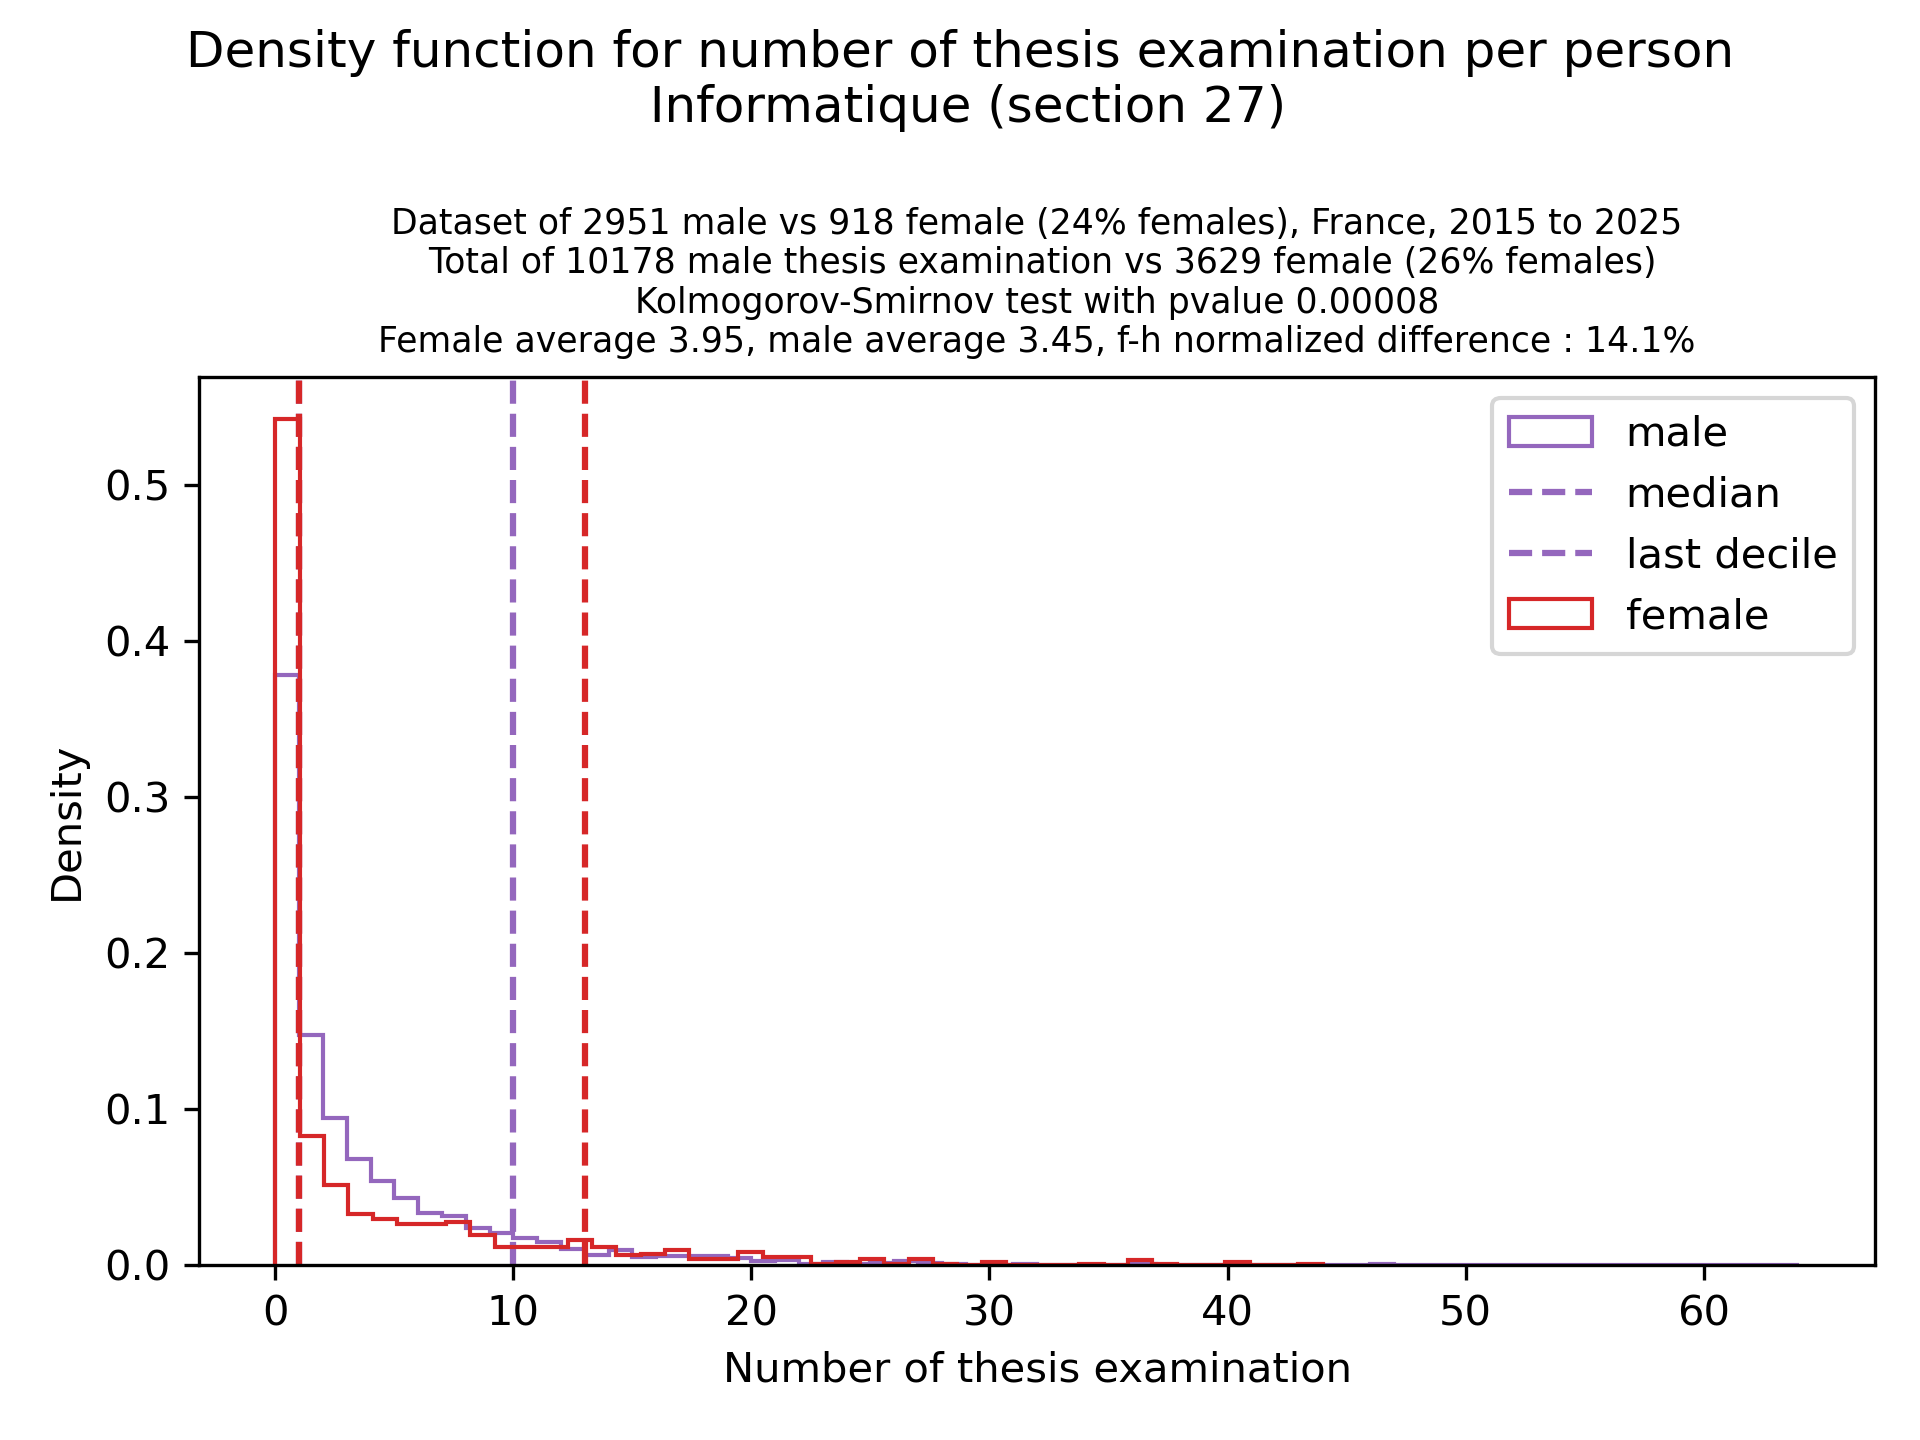
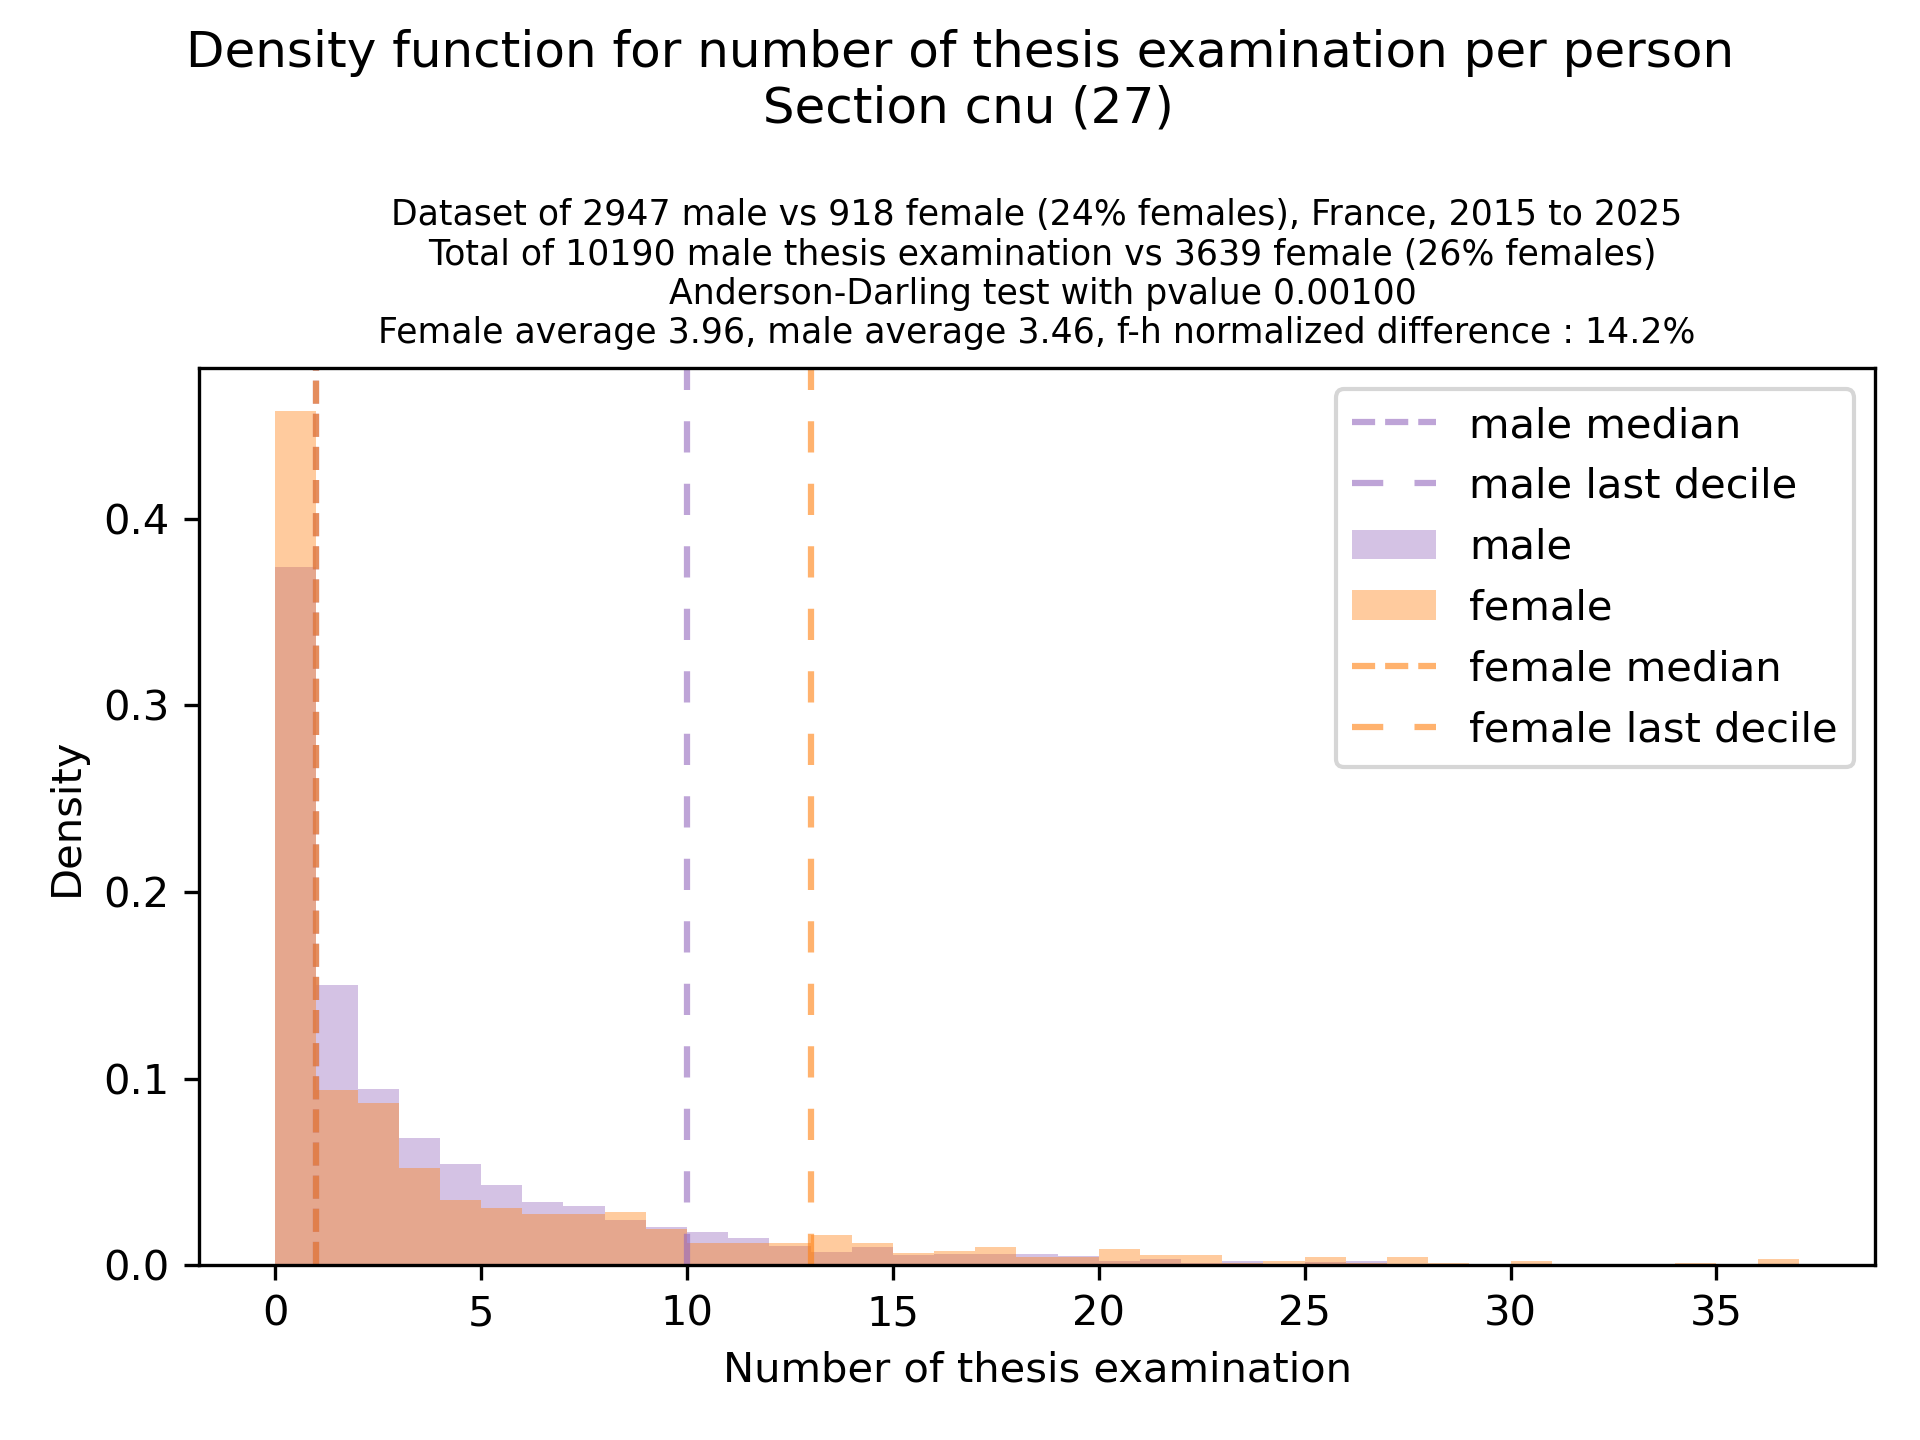
Stats: major update and clean-up

diff --git a/computer_science.html b/computer_science.html
@@ -181,16 +181,14 @@ is worsening.</li>
 <p>Highlights for people in section 27:</p>
 <ul>
 <li><strong>Men supervise more than women</strong> (about 1.5 times more
-on average, and 60% of women don’t supervise vs 45% of men).</li>
+on average, and 60% of women don’t supervise vs 45% of men). The effect
+holds for both PU or MCF.</li>
 <li><strong>Women are more often jury member</strong> for thesis, but in
-addition the global repartition is very bad for women, where a lot of
-pressure is put on a few of them. (many women never do any jury, while
-6% of women do more than 2 jury per year, vs only 1% of men).</li>
+addition the global repartition whithin women is very bad, where a lot
+of pressure is put on a few of them. The effect is most striking for PU,
+but also holds for MCF.</li>
 <li><strong>Women’s PhD thesis (in number of pages) are slightly
 longer</strong> than men (on average 7 pages longer out of 180).</li>
-<li><strong>Women are more often on hiring committees</strong> , which
-is expected by French law which asks for at least 40% women in every
-committee, but once again, the global repartition is bad.</li>
 </ul>
 <div class="warning">
 <p><span style="color: #9a6700;">⚠ Warning</span></p>
@@ -213,16 +211,45 @@ lookout for its consequences.</p>
 <p>The plots below are density functions (the area below the lines sum
 to 1). On the first one, we for instance see that way more women than
 men in proportion never do any thesis jury (the red bar is bigger than
-the purple one at 0), and that the last decile is way higher for
-women.</p>
-<p><img src="pics/examiner.sec27.png" /></p>
-<p><img src="pics/supervised.sec27.png" /></p>
-<p><img src="pics/length.info.zoom.png" /></p>
+the purple one at 0), and that the last decile is way higher for women.
+For each effect, we put the most striking graph first.</p>
+<h3 id="effect-1-graphics">Effect 1 graphics</h3>
+<p><img src="pics/supervised.pu.sec27.png" /> <img
+src="pics/supervised.sec27.png" /> <img
+src="pics/supervised.mcf.sec27.png" /></p>
+<h3 id="effect-2-graphics">Effect 2 graphics</h3>
+<p><img src="pics/examiner.pu.sec27.png" /> <img
+src="pics/examiner.sec27.png" /> <img
+src="pics/examiner.mcf.sec27.png" /></p>
+<h3 id="effect-3-graphics">Effect 3 graphics</h3>
+<p><img src="pics/length.info.png" /></p>
+<h1 id="hiring-committees-for-computer-science-and-maths">Hiring
+committees for computer science and maths</h1>
+<p>The french law for hiring committees enforces a 40% proportion of
+women. So, as expected, we see an unfair burden on women. However,
+across all sections, we observe <strong>an unfair repartition whitin
+women</strong>, with too much pressure put on too few women. The effect
+is most striking for PU in sec 25 and 26, and more reasonable for
+section 27. However, note that for section 27, the results are very
+innacurate (see <a href="#methodology">Methodology</a> below), almost
+half of the data is missing, which could fully invisibilize the
+targetted effect.</p>
+<h3
+id="graphs-ordered-from-most-striking-to-less-striking-unfair-repartition">Graphs
+ordered from most striking to less striking unfair repartition</h3>
+<p><img src="pics/jury_poste.pu.sec25.png" /> <img
+src="pics/jury_poste.pu.sec26.png" /> <img
+src="pics/jury_poste.mcf.sec25.png" /></p>
+<p><img src="pics/jury_poste.mcf.sec26.png" /> <img
+src="pics/jury_poste.pu.sec27.png" /> <img
+src="pics/jury_poste.mcf.sec27.png" /></p>
 <h2 id="methodology">Methodology</h2>
+<h3 id="mcfpu-positions">MCF/PU positions</h3>
 <p>For MCF/PU positions, data was aggregated from the “Fiches
 démographiques des sections du Conseil national des universités (CNU)”
 for section 27, for INRIA, from the “Rapport Social Unique” 2022 and
 2023, for CNRS, from “Rappor de conjoncture” 2018 and 2025.</p>
+<h3 id="thesis">Thesis</h3>
 <p>For PhD thesis gender/length/review/supervisions, data was scrapped
 from <a href="https://theses.fr">theses.fr</a> and <a
 href="https://theses.hal.science/">theses.hal.science/</a>, supported
@@ -231,7 +258,8 @@ contains the gender). Some errors are very likely to be contained, but
 for checkable data, data is consistent.</p>
 <p>Notably, gender is mostly guessed using an INSEE database of name
 popularity w.r.t. gender in France. For CNU 27 people, gender was
-correctly guessed with above 95% probability.</p>
+correctly guessed (comparing with the one from the electoral body) with
+above 95% probability.</p>
 <p>A PhD thesis was considered to belong to section 27 if at least one
 of the director is inside the section.</p>
 <p>Several bias/limitations are present:</p>
@@ -248,6 +276,20 @@ an id are not always linked to the id.</li>
 <p>Data would need to be manually inspected based on random sampling to
 increase trust in the results. Some statistically significant bias would
 require a quantitative analysis to identify the origin.</p>
+<h3 id="hiring-committees">Hiring committees</h3>
+<p>We used the electoral body of section 25,26 and 27 of 2019 and 2024,
+which contains the gender. In addition, we used the grassroot effort of
+registering committees at http://postes.smai.emath.fr</p>
+<p>Note that in section 27, the proportion of unregistered committees
+(for which we don’t know the set of committee members), is 52%, vs 8%
+for 25 and 13% for 26. Hence, for section 27, the absolute value are
+very much far away from the truth.</p>
+<p>In addition, the committees member list are not at all formated in a
+consistent way. For each cnu member, we counted how many time either
+“firstname surname” or “surname firstname” occured in those
+inconsistenly formatted lists. Many data points are probably missed, but
+this should not introduce any gender bias.</p>
+<h3 id="final-comments">Final comments</h3>
 <p>For people willing to contribute to the exploration of potential
 biases, all scripts used to build the databases and the databases
 themselves can be found at
@@ -261,30 +303,6 @@ themselves can be found at
 gives this data though)</li>
 <li>?</li>
 </ul>
-<h1 id="hiring-committees-for-computer-science-and-maths">Hiring
-committees for computer science and maths</h1>
-<p>The french law for hiring committees enforces a 40% proportion of
-women. So, as expected, we see an unfair burden on women. However,
-across all sections, we observe <em>an unfair repartition whitin
-women</em>, with too much pressure put on too few women. Note that for
-section 27, the absolute values are very innacurate (see below), and
-only relative differences might be meaningful.</p>
-<p><img src="pics/jury_poste.sec25.png" /> <img
-src="pics/jury_poste.sec26.png" /> <img
-src="pics/jury_poste.sec27.png" /></p>
-<h2 id="methodology-1">Methodology</h2>
-<p>We used the electoral body of section 25,26 and 27 of 2019 and 2024,
-which contains the gender. In addition, we used the grassroot effort of
-registering committees at http://postes.smai.emath.fr</p>
-<p>Note that in section 27, the proportion of unregistered committees
-(for which we don’t know the set of committee members), is 52%, vs 8%
-for 25 and 13% for 26. Hence, for section 27, the absolute value are
-very much far away from the truth.</p>
-<p>In addition, the committees member list are not at all formated in a
-consistent way. For each cnu member, we counted how many time either
-“firstname surname” or “surname firstname” occured in those
-inconsistenly formatted lists. Many data points are probably missed, but
-this should not introduce any gender bias.</p>
 
       <hr>
       <div class="footer-nav">

diff --git a/computer_science_src.md b/computer_science_src.md
@@ -53,11 +53,9 @@ Highlights:
 
 Highlights for people in section 27: 
 
- * **Men supervise more than women** (about 1.5 times more on average, and 60% of women don't supervise vs 45% of men).
- * **Women are more often jury member** for thesis, but in addition the global repartition is very bad for women, where a lot of pressure is put on a few of them. (many women never do any jury, while 6% of women do more than 2 jury per year, vs only 1% of men). 
+ * **Men supervise more than women** (about 1.5 times more on average, and 60% of women don't supervise vs 45% of men). The effect holds for both PU or MCF.
+ * **Women are more often jury member** for thesis, but in addition the global repartition whithin women is very bad, where a lot of pressure is put on a few of them. The effect is most striking for PU, but also holds for MCF.
  * **Women's PhD thesis (in number of pages) are slightly longer** than men (on average 7 pages longer out of 180).
- * **Women are more often on hiring committees** , which is expected by French law which asks for at least 40% women in every committee, but once again, the global repartition is bad.
-
 
 
 ::::: warning
@@ -72,23 +70,54 @@ Effect 1 and 2 appear specific to section 27, and disappears when we consider al
 
 Effect 3 may imply that explicit or implicit pressure is put on women to produce more, to "make them prove that they belong". More research would be needed to explain this phenomenon, but we can still be on the lookout for its consequences.
 
-The plots below are density functions (the area below the lines sum to 1). On the first one, we for instance see that way more women than men in proportion never do any thesis jury (the red bar is bigger than the purple one at 0), and that the last decile is way higher for women.
+The plots below are density functions (the area below the lines sum to 1). On the first one, we for instance see that way more women than men in proportion never do any thesis jury (the red bar is bigger than the purple one at 0), and that the last decile is way higher for women. For each effect, we put the most striking graph first.
 
-
-![](pics/examiner.sec27.png)
-
+### Effect 1 graphics
+![](pics/supervised.pu.sec27.png)
 ![](pics/supervised.sec27.png)
+![](pics/supervised.mcf.sec27.png)
 
-![](pics/length.info.zoom.png)
+
+### Effect 2 graphics
+
+![](pics/examiner.pu.sec27.png)
+![](pics/examiner.sec27.png)
+![](pics/examiner.mcf.sec27.png)
+
+
+### Effect 3 graphics
+
+![](pics/length.info.png)
+
+
+
+# Hiring committees for computer science and maths
+
+
+The french law for hiring committees enforces a 40% proportion of women. So, as expected, we see an unfair burden on women. However, across all sections, we observe **an unfair repartition whitin women**, with too much pressure put on too few women. The effect is most striking for PU in sec 25 and 26, and more reasonable for section 27. However, note that for section 27, the results are very innacurate (see  [Methodology](#methodology) below), almost half of the data is missing, which could fully invisibilize the targetted effect.
+
+### Graphs ordered from most striking to less striking unfair repartition
+
+![](pics/jury_poste.pu.sec25.png)
+![](pics/jury_poste.pu.sec26.png)
+![](pics/jury_poste.mcf.sec25.png)
+
+![](pics/jury_poste.mcf.sec26.png)
+![](pics/jury_poste.pu.sec27.png)
+![](pics/jury_poste.mcf.sec27.png)
 
 
 ## Methodology
 
+### MCF/PU positions
+
 For MCF/PU positions, data was aggregated from the "Fiches démographiques des sections du Conseil national des universités (CNU)" for section 27, for INRIA, from the "Rapport Social Unique" 2022 and 2023, for CNRS, from "Rappor de conjoncture" 2018 and 2025. 
+
+### Thesis 
 
 For PhD thesis gender/length/review/supervisions, data was scrapped from [theses.fr](https://theses.fr) and [theses.hal.science/](https://theses.hal.science/), supported with the electoral body of section 27 of 2019 and 2024 (which also contains the gender).  Some errors are very likely to be contained, but for checkable data, data is consistent.
 
-Notably, gender is mostly guessed using an INSEE database of name popularity w.r.t. gender in France. For CNU 27 people, gender was correctly guessed with above 95% probability.
+Notably, gender is mostly guessed using an INSEE database of name popularity w.r.t. gender in France. For CNU 27 people, gender was correctly guessed (comparing with the one from the electoral body) with above 95% probability.
 
 A PhD thesis was considered to belong to section 27 if at least one of the director is inside the section.
 
@@ -99,26 +128,7 @@ Several bias/limitations are present:
  
 Data would need to be manually inspected based on random sampling to increase trust in the results. Some statistically significant bias would require a quantitative analysis to identify the origin. 
 
-For people willing to contribute to the exploration of potential biases, all scripts used to build the databases and the databases themselves can be found at (https://github.com/not-in-our-labs/workpace/tree/main/?tab=readme-ov-file) (in a messy state)
-
-Additional questions to explore based on the available data:
-
- * is there a bias w.r.t. cosupervisions?
- * is there a bias w.r.t. to thesis length in years?
- * is there a bias w.r.t. to unfinished thesis? (unclear if theses.fr gives this data though)
- * ?
-
-# Hiring committees for computer science and maths
-
-
-
-The french law for hiring committees enforces a 40% proportion of women. So, as expected, we see an unfair burden on women. However, across all sections, we observe *an unfair repartition whitin women*, with too much pressure put on too few women. Note that for section 27, the absolute values are very innacurate (see below), and only relative differences might be meaningful. 
-
-![](pics/jury_poste.sec25.png)
-![](pics/jury_poste.sec26.png)
-![](pics/jury_poste.sec27.png)
-
-## Methodology
+### Hiring committees
 
 We used the electoral body of section 25,26 and 27 of 2019 and 2024, which contains the gender. In addition, we used the grassroot effort of registering committees at http://postes.smai.emath.fr 
 
@@ -127,4 +137,15 @@ Note that in section 27, the proportion of unregistered committees (for which we
 In addition, the committees member list are not at all formated in a consistent way. For each cnu member, we counted how many time either "firstname surname" or "surname firstname" occured in those inconsistenly formatted lists. Many data points are probably missed, but this should not introduce any gender bias.
 
 
+
+### Final comments
+
+For people willing to contribute to the exploration of potential biases, all scripts used to build the databases and the databases themselves can be found at (https://github.com/not-in-our-labs/workpace/tree/main/?tab=readme-ov-file) (in a messy state)
+
+Additional questions to explore based on the available data:
+
+ * is there a bias w.r.t. cosupervisions?
+ * is there a bias w.r.t. to thesis length in years?
+ * is there a bias w.r.t. to unfinished thesis? (unclear if theses.fr gives this data though)
+ * ?
 
